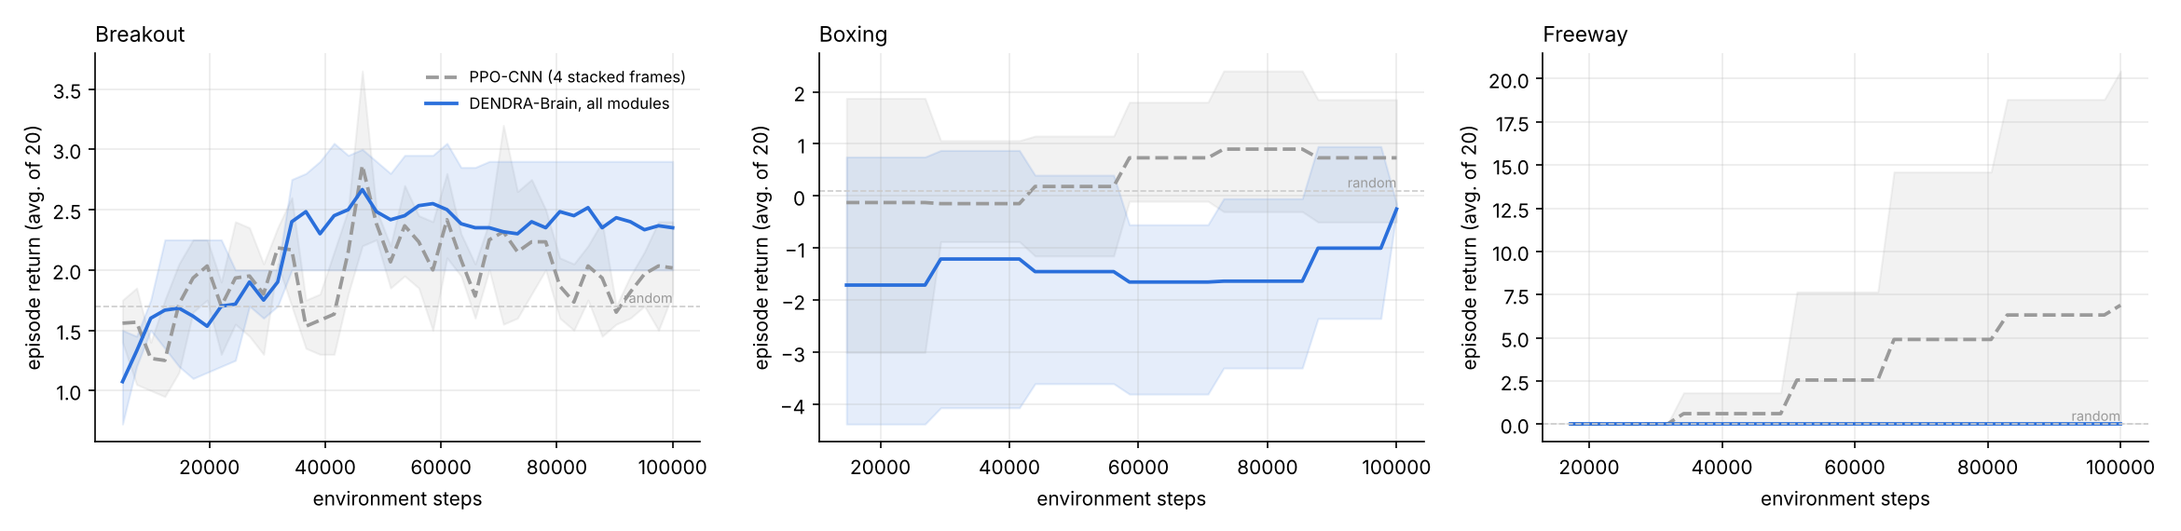
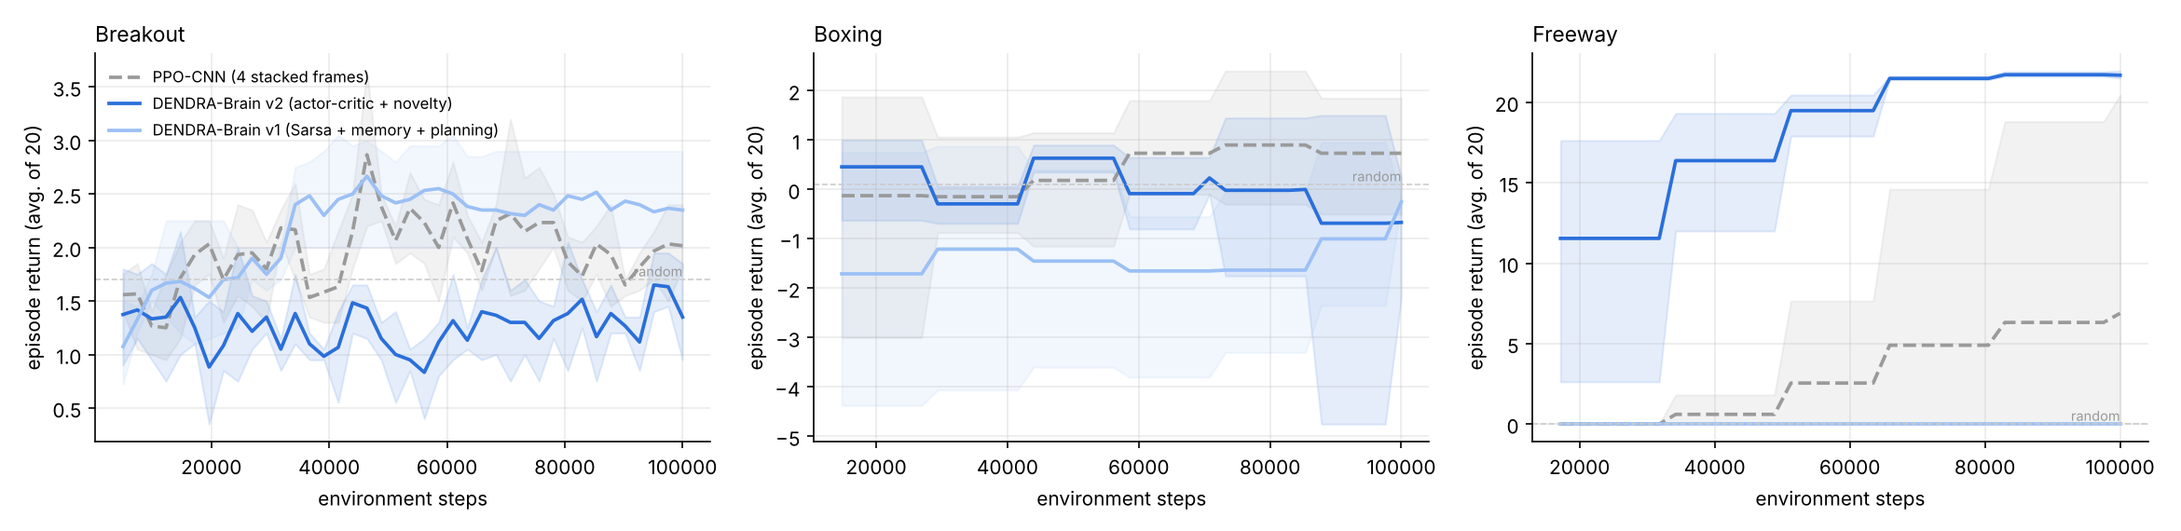
DENDRA-Brain v2 on Atari: actor-critic basal ganglia + novelty dopamine
Diagnosis of the failed v1: exploration collapse (FIRE dies out in
Breakout), confirmed by an oracle test with true RAM variables that the
learning core itself was the first bottleneck.

- dendra/brain.py: optional novelty dopamine (intrinsic reward from the
  least visited place cells); with true variables Freeway goes 0 -> 21-23.
  Off by default; Part I results unchanged (checked bit for bit)
- dendra/visual_brain.py: actor-critic striatum (critic V(s), actor
  preferences with synaptic saturation), novelty from single visual
  features, optional boredom (noradrenaline); v2 is the new default
- held-out Atari 100k (seeds 10-12): Freeway 21.7 +- 0.2 vs PPO-CNN
  6.9 +- 9.6 (SPR 21); Breakout and Boxing still at random level
- BRAIN.md section 11, README

diff --git a/dendra/visual_brain.py b/dendra/visual_brain.py
@@ -11,6 +11,9 @@ Every part learns online with local rules; there is no backpropagation anywhere.
                                                     └─► cerebellum: forward model of the next code and reward
                                                            planning = mental simulation that trains the striatum
     action = softmax over [striatum + hippocampus] values (arbitration)
+
+Defaults = "v2": actor-critic striatum + novelty dopamine, no hippocampus and no planning (these did not help
+on Atari; see BRAIN.md, Part II). v1 = actor_critic=False novelty=0 episodic=1.0 planning=4.
 """
 import math
 
@@ -148,11 +151,20 @@ class VisualBrainAgent:
     temperature      softmax temperature of the action choice
     conjunctions     use dendritic conjunction features
     episodic         weight of the hippocampal values in the choice (0 = no hippocampus)
+    planning         remembered transitions replayed per environment step (0 = no planning)
+    boredom          noradrenaline / adaptive gain: after this many steps without reward, the choice temperature
+                     has doubled, and it keeps rising (up to 20x) until a reward arrives (0 = off)
+    novelty          dopamine bonus for rarely seen visual features (0 = off)
+    actor_critic     True: ventral striatum = critic V(s), dorsal striatum = actor with action preferences
+                     (both learn from the same dopamine δ = r + γV(s') - V(s)); False: Sarsa action values
+    lr_actor         learning rate of the actor synapses (default: lr)
+    max_gap          synaptic saturation: an action's preference can fall at most this far below the best one,
+                     so every action keeps a small chance of being tried
     """
 
     def __init__(self, n_actions, n_envs=8, lr=0.1, gamma=0.99, lam=0.8, trace_len=10, temperature=0.05,
                  conjunctions=True, episodic=0.0, ec_capacity=20000, planning=0, plan_lr=None,
-                 critical_period=3000, seed=0):
+                 critical_period=3000, boredom=0, novelty=0.5, actor_critic=True, lr_actor=None, max_gap=4.0, seed=0):
         self.N, self.A = n_envs, n_actions
         self.lr, self.gamma, self.lam, self.trace_len, self.temperature = lr, gamma, lam, trace_len, temperature
         self.gen = torch.Generator().manual_seed(seed)
@@ -161,7 +173,11 @@ class VisualBrainAgent:
         self.habituation = Habituation(self.vision.v1_size)
         self.conj = DendriticConjunctions(self.vision.n_v1) if conjunctions else None
         n_total = self.vision.n_features + (self.conj.size if self.conj else 0)
-        self.w = torch.zeros(n_total, n_actions)                    # cortico-striatal synapses
+        self.w = torch.zeros(n_total, n_actions)                    # cortico-striatal synapses (Sarsa or actor)
+        self.actor_critic, self.max_gap = actor_critic, max_gap
+        self.lr_actor = lr if lr_actor is None else lr_actor
+        if actor_critic:
+            self.v = torch.zeros(n_total)                           # ventral striatum: state value (critic)
         self.dopamine = Dopamine(n_envs, gamma)
         self.history = [[] for _ in range(n_envs)]                  # recent (features, action) = eligibility tags
         self.episodic = episodic
@@ -169,6 +185,10 @@ class VisualBrainAgent:
             self.memory = EpisodicMemory(self.vision.n_features, n_actions, ec_capacity, seed=seed)
             self.episode = [[] for _ in range(n_envs)]              # (key, action, raw reward) of the running episode
         self.prev_q = None
+        self.boredom, self.drought = boredom, torch.zeros(n_envs)
+        self.novelty = novelty
+        if novelty > 0:
+            self.seen = torch.zeros(self.w.shape[0])                # how often each feature has fired
         self.planning = planning
         self.plan_lr = lr / 4 if plan_lr is None else plan_lr
         if planning > 0:
@@ -194,7 +214,13 @@ class VisualBrainAgent:
         if ec_q is not None:                                                # arbitration striatum / hippocampus
             ec = ec_q / math.sqrt(self.dopamine.var + 1e-8)                 # same units as the striatum
             scores = torch.where(known, q + self.episodic * ec, q)
-        probs = torch.softmax(scores / self.temperature, -1)
+        if self.actor_critic:                                               # preferences: saturating synapses
+            scores = torch.maximum(scores, scores.max(-1, keepdim=True).values - self.max_gap)
+        temperature = torch.full((self.N, 1), 1.0 if self.actor_critic else self.temperature)
+        if self.boredom > 0:                                                # locus coeruleus: explore when rewards dry up
+            temperature = temperature * (1 + self.drought / self.boredom).clamp(max=20.0)[:, None]
+        probs = torch.softmax(scores / temperature, -1)
+        self.probs = probs
         return torch.multinomial(probs, 1, generator=self.gen)[:, 0]
 
     # -------------------------------------------------------------------------------- loop
@@ -205,10 +231,18 @@ class VisualBrainAgent:
     def step(self, frames, reward, done):
         reward = torch.as_tensor(np.asarray(reward), dtype=torch.float32).reshape(self.N)
         done = torch.as_tensor(np.asarray(done), dtype=torch.bool).reshape(self.N)
+        self.drought = torch.where(reward != 0, torch.zeros_like(self.drought), self.drought + 1)
         return self._act(frames, done, reward, self.dopamine(reward, done))
 
     def _act(self, frames, new, raw_reward, r):
         features, codes = self.perceive(frames, new)
+        if r is not None and self.novelty > 0:                              # novelty dopamine, from single features
+            bonus = torch.stack([torch.topk(1.0 / torch.sqrt(1.0 + self.seen[c]), min(4, len(c))).values.mean()
+                                 for c in codes])                           # (pairs are excluded: moving objects
+            r = r + self.novelty * bonus                                    #  make pairs look new all the time)
+        if self.novelty > 0:
+            for c in codes:
+                self.seen[c] += 1
         q = self.q_values(features)
         ec_q = known = keys = None
         if self.episodic > 0:
@@ -216,6 +250,8 @@ class VisualBrainAgent:
             ec_q, known = self.memory.recall(keys)
         action = self.choose(q, ec_q, known)
         q_sa = q.gather(1, action[:, None])[:, 0]
+        if self.actor_critic:
+            q_sa = torch.stack([self.v[f].sum() for f in features])        # critic value of the new state
         if r is not None:
             delta = r + self.gamma * q_sa * (~new) - self.prev_q          # dopamine: reward prediction error
             self._learn(delta)
@@ -229,12 +265,15 @@ class VisualBrainAgent:
         for n in range(self.N):                                            # tag the synapses of this choice
             if new[n]:
                 self.history[n] = []
-            self.history[n].insert(0, (features[n], int(action[n])))
+            self.history[n].insert(0, (features[n], int(action[n]), self.probs[n]))
             del self.history[n][self.trace_len:]
         if self.episodic > 0:
             for n in range(self.N):
                 self.episode[n].append([keys[n], int(action[n]), 0.0])
-        self.prev_q = self.q_values(features).gather(1, action[:, None])[:, 0]
+        if self.actor_critic:
+            self.prev_q = torch.stack([self.v[f].sum() for f in features])
+        else:
+            self.prev_q = self.q_values(features).gather(1, action[:, None])[:, 0]
         if self.planning > 0:
             self.prev_features, self.prev_action = features, action
         return action.numpy()
@@ -260,16 +299,24 @@ class VisualBrainAgent:
         for n in range(self.N):
             if not self.history[n]:
                 continue
-            feats = torch.cat([f for f, _ in self.history[n]])
-            ages = torch.cat([torch.full_like(f, age) for age, (f, _) in enumerate(self.history[n])])
-            acts = torch.cat([torch.full_like(f, a) for f, a in self.history[n]])
-            sizes = torch.cat([torch.full(f.shape, float(max(len(f), 1))) for f, _ in self.history[n]])
+            hist = self.history[n]
+            feats = torch.cat([h[0] for h in hist])
+            ages = torch.cat([torch.full_like(h[0], age) for age, h in enumerate(hist)])
+            acts = torch.cat([torch.full_like(h[0], h[1]) for h in hist])
+            steps = torch.cat([torch.full_like(h[0], age) for age, h in enumerate(hist)])
+            sizes = torch.cat([torch.full(h[0].shape, float(max(len(h[0]), 1))) for h in hist])
             order = torch.argsort(feats * self.trace_len + ages)             # per feature, newest use first
-            feats, ages, acts, sizes = feats[order], ages[order], acts[order], sizes[order]
+            feats, ages, acts, sizes, steps = feats[order], ages[order], acts[order], sizes[order], steps[order]
             first = torch.ones_like(feats, dtype=torch.bool)
             first[1:] = feats[1:] != feats[:-1]
-            rows.append(feats[first]); cols.append(acts[first])
-            vals.append(float(delta[n]) * decay ** ages[first].float() / sizes[first])
+            tag = float(delta[n]) * decay ** ages[first].float() / sizes[first]
+            if self.actor_critic:
+                self.v.index_add_(0, feats[first], self.lr * tag)            # critic: ventral striatum
+                probs = torch.stack([h[2] for h in hist])[steps[first]]      # policy at the time of each tag
+                score = torch.nn.functional.one_hot(acts[first], self.A).float() - probs   # actor eligibility
+                self.w.index_add_(0, feats[first], self.lr_actor * tag[:, None] * score)
+                continue
+            rows.append(feats[first]); cols.append(acts[first]); vals.append(tag)
         if rows:
             self.w.index_put_((torch.cat(rows), torch.cat(cols)), self.lr * torch.cat(vals), accumulate=True)
 

diff --git a/dendra/brain.py b/dendra/brain.py
@@ -186,6 +186,8 @@ class BrainAgent:
     temperature       softmax temperature of the channel choice
     explore           bonus for actions rarely tried in the current situation (0 = off)
     adaptive          divide rewards by the running spread of the return (adaptive dopamine coding)
+    novelty           novelty dopamine: intrinsic reward novelty / sqrt(1 + visits) of the least visited firing
+                      cells, added to the reward so that it propagates to the states that lead there (0 = off)
     consolidation     metaplasticity: a synapse that has been used n times learns at rate
                       lr / sqrt(1 + consolidation * n), but never below lr * min_plasticity (0 = off)
     """
@@ -193,10 +195,11 @@ class BrainAgent:
     def __init__(self, obs_dim, n_actions=None, action_low=None, action_high=None, n_envs=1,
                  areas=16, subspace=4, n_units=1024, k=4, radius=0.3, field=2.0, timescales=(2.0, 8.0),
                  gamma=0.99, lam=0.9, lr=0.2, temperature=0.01, explore=0.3, levels=5, primary_max=8,
-                 adaptive=True, consolidation=0.0, min_plasticity=0.1, seed=0):
+                 adaptive=True, consolidation=0.0, min_plasticity=0.1, novelty=0.0, seed=0):
         self.N, self.gamma, self.lam, self.lr = n_envs, gamma, lam, lr
         self.temperature, self.explore = temperature, explore
         self.consolidation, self.min_plasticity = consolidation, min_plasticity
+        self.novelty = novelty
         self.gen = torch.Generator().manual_seed(seed)
         self.context = TemporalContext(obs_dim, n_envs, timescales)
         self.senses = SensoryAdaptation(self.context.out_dim)
@@ -212,6 +215,7 @@ class BrainAgent:
         else:
             self.D, self.L = 1, n_actions
         U = self.cortex.n_units
+        self.visits = torch.zeros(U)                             # how often each place cell has fired
         self.w = torch.zeros(U, self.D, self.L)                  # cortico-striatal synapses
         self.tags = torch.zeros(n_envs, U, self.D, self.L)       # eligibility tags
         self.tried = torch.zeros(U, self.D, self.L)              # how often each channel was chosen from each unit
@@ -223,7 +227,7 @@ class BrainAgent:
         x = torch.as_tensor(np.asarray(obs), dtype=torch.float32).reshape(self.N, -1)
         active, firing = self.cortex(self.senses(self.context(x, new_episode)))
         for unit in self.cortex.recycled:                        # a recycled unit starts with blank synapses
-            self.w[unit] = 0; self.tags[:, unit] = 0; self.tried[unit] = 0
+            self.w[unit] = 0; self.tags[:, unit] = 0; self.tried[unit] = 0; self.visits[unit] = 0
         return active, firing
 
     # -------------------------------------------------------------------------------- striatum
@@ -277,6 +281,10 @@ class BrainAgent:
         done = torch.as_tensor(np.asarray(done), dtype=torch.bool).reshape(self.N)
         r = self.dopamine(reward, done)
         active, firing = self.perceive(obs, done)
+        if self.novelty > 0:                                     # novelty dopamine (least visited firing cells)
+            novel = torch.where(firing > 0, 1.0 / torch.sqrt(1.0 + self.visits[active]), torch.zeros_like(firing))
+            r = r + self.novelty * torch.topk(novel, 4, dim=-1).values.mean(-1)
+            self.visits.index_add_(0, active.flatten(), firing.flatten())
         q = self.channel_values(active, firing)
         choice = self.choose(q, active, firing)
         delta = r + self.gamma * self.value_of(q, choice) * (~done) - self.prev       # dopamine: prediction error

diff --git a/experiments/rl/plot_atari.py b/experiments/rl/plot_atari.py
@@ -27,7 +27,8 @@ warnings.filterwarnings("ignore", "Mean of empty slice")
 GAMES = ["Breakout", "Boxing", "Freeway"]
 AGENTS = {
     "ppo": ("PPO-CNN (4 stacked frames)", "#9a9a9a", "--"),
-    "full": ("DENDRA-Brain, all modules", "#2a6fdb", "-"),
+    "v2": ("DENDRA-Brain v2 (actor-critic + novelty)", "#2a6fdb", "-"),
+    "full": ("DENDRA-Brain v1 (Sarsa + memory + planning)", "#9cc0f5", "-"),
     "noplan": ("  - planning (replay)", "#7fb3f5", "-"),
     "nomem": ("  - hippocampal memory", "#a0c4f8", ":"),
     "noconj": ("  - dendritic conjunctions", "#c6dcfb", "-."),
@@ -63,7 +64,7 @@ def main():
             f = np.array([final(r) for r in results])
             speed = np.mean([(r.get("steps") or r.get("total")) / r["time_s"] for r in results])
             print(f"{game:10} {label:36} {f.mean():14.2f} ± {f.std():5.2f} {speed:8.0f}  ({', '.join(f'{x:.1f}' for x in f)})")
-            if kind in ("ppo", "full"):
+            if kind in ("ppo", "full", "v2"):
                 curves = np.array([curve(r, grid) for r in results])
                 ax.plot(grid, np.nanmean(curves, 0), style, color=color, lw=1.8, label=label.strip())
                 if len(results) > 1:

diff --git a/BRAIN.md b/BRAIN.md
@@ -11,7 +11,9 @@ We compare it with PPO, using an MLP (with frame stacking when velocities are hi
 - **At 300k steps:** PPO-MLP catches up or overtakes. DENDRA-Brain's advantage is speed of learning, not final performance.
 - **Weaknesses:** high variance between seeds, some degradation late in training, and so far only low-dimensional sensors (no vision).
 
-**Part II** adds a visual cortex, hippocampal long-term memory and planning, and tests the agent on Atari. There it does **not** learn: it stays near random play and below PPO-CNN once PPO has enough data. Section 9 explains why.
+**Part II** adds a visual cortex, hippocampal long-term memory and planning, and tests the agent on Atari.
+- **First version:** it does not learn (section 9 explains why).
+- **After diagnosis (v2: actor–critic basal ganglia + novelty dopamine, section 11):** it solves Freeway at 100k steps (21.7, PPO-CNN 6.9, SPR 21), but Breakout and Boxing stay at random level.
 
 ---
 
@@ -206,7 +208,14 @@ Code: `dendra/brain.py` (the agent), `experiments/rl/run_brain.py`, `experiments
 
 Test it on real Atari games.
 
-**Result in short: it does not work yet.**
+**Result in short.**
+- **First version (v1):** it does not learn. Sections 7–9 describe it.
+- **Second round (v2, section 11):**
+  - Diagnosis showed that exploration, not vision, was the first problem.
+  - With an actor–critic striatum and novelty dopamine, the agent **solves Freeway** with local rules only: 21.7 ± 0.2 at 100k steps, versus PPO-CNN 6.9 and SPR 21.
+  - Breakout and Boxing remain at random level.
+
+**First version, in short: it does not work.**
 - At 100k steps, both DENDRA-Brain and PPO-CNN stay near random play on Breakout, Boxing and Freeway.
 - With 5x more data (Breakout, 500k steps), PPO starts to learn (9.3) and DENDRA-Brain does not (1.6).
 - Published sample-efficient deep-RL methods reach 13–38 on these games at 100k steps.
@@ -295,7 +304,10 @@ These published methods use deep networks trained by backpropagation, replay wit
 ## 10. Reproducing Part II
 
 ```bash
-python experiments/rl/run_visual_brain.py --game Breakout --steps 100000 --seed 10 --set episodic=1.0 planning=4 --out runs/atari/full_Breakout_s10.json
+# v1 (Sarsa + memory + planning)
+python experiments/rl/run_visual_brain.py --game Breakout --steps 100000 --seed 10 --set actor_critic=False novelty=0 episodic=1.0 planning=4 --out runs/atari/full_Breakout_s10.json
+# v2 (the defaults: actor-critic + novelty dopamine)
+python experiments/rl/run_visual_brain.py --game Freeway --steps 100000 --seed 10 --out runs/atari/v2_Freeway_s10.json
 python experiments/rl/ppo.py --env atari:Breakout --core mlp --total 100000 --seed 10 --device cpu --out runs/atari/ppo_Breakout_s10.json
 python experiments/rl/plot_atari.py experiments/results/brain_atari/main_100k figures/brain_atari.png
 ```
@@ -306,3 +318,52 @@ Additional references (Part II):
 - Liang, Y., Machado, M. C., Talvitie, E., Bowling, M. *State of the art control of Atari games using shallow reinforcement learning.* AAMAS 2016.
 - Mattar, M. G., Daw, N. D. *Prioritized memory access explains planning and hippocampal replay.* Nature Neuroscience 21, 2018.
 - Schwarzer, M. et al. *Data-efficient reinforcement learning with self-predictive representations (SPR).* ICLR 2021.
+
+## 11. Second round: diagnosis and v2
+
+**Step 1: what really went wrong.** The action statistics during training showed that the first problem was exploration collapse, not vision.
+- In Breakout, the probability of pressing FIRE fell to exactly 0 by 40k steps.
+- Without FIRE the ball is never relaunched after a lost life, so no reward arrives again and the values decay to 0.
+- The agent then waits forever. This is why the 500k run had so few episodes.
+
+**Step 2: an oracle test separates vision from learning.** The same learning core was given the true game variables from RAM instead of pixels:
+- **Breakout:** ball x/y and paddle x.
+- **Freeway:** chicken height and car positions.
+
+It still learned little: Breakout 1.7 → 3.4, Freeway 0. So the learning core itself was too weak for these games, independent of vision. Two causes emerged:
+1. **Exploration bonuses that do not propagate.** The action-novelty bonus of Part I changes only the choice in the current state. It never enters the values, so "moving up leads to places never seen" is not learned. MountainCar worked only because its −1 per step made values that start at zero optimistic.
+2. **Tags that are too short for Atari delays.** With true variables, longer eligibility tags (λ = 0.97) raised Breakout from 3.4 to 5.1.
+
+**Step 3: two brain mechanisms that fix exploration.**
+- **Novelty dopamine** (Kakade & Dayan, 2002). Dopamine neurons fire for novel stimuli. The novelty of the least-seen features is added to the reward, so it propagates through learning to the states that lead to novelty.
+  - Core agent: with true variables, Freeway rises from 0 to **21–23** (`dendra/brain.py`, option `novelty`).
+  - Vision agent: novelty is computed on single visual features only. Feature *pairs* of the moving cars look new all the time and drown the signal.
+- **Actor–critic basal ganglia** (O'Doherty et al., 2004).
+  - The ventral striatum learns the state value V(s) (critic); the dorsal striatum learns action preferences (actor). Both learn from the same dopamine δ = r + γV(s') − V(s).
+  - With Sarsa, action differences come only from small differences in long-run value and are lost in noise. Actor preferences instead keep growing as long as an action does better than expected.
+  - Synaptic saturation (a preference can fall at most 4 below the best) guarantees that every action keeps being tried. This prevents the FIRE collapse.
+  - With vision on Freeway, Sarsa + novelty still scores 0, while actor–critic + novelty scores 22.
+
+**Also tried, without effect:** a "boredom" mechanism, where noradrenaline raises exploration after a long time without reward (adaptive gain theory, Aston-Jones & Cohen, 2005). It makes behaviour more random, which does not help when the problem needs *directed* exploration.
+
+**v2 = vision + conjunctions + actor–critic striatum + novelty dopamine.** There is no hippocampal memory and no planning, since neither helped in v1. The configuration was fixed on seed 0 before the evaluation on seeds 10–12:
+
+| Game | Random | PPO-CNN | v1 | **v2** | Published at 100k: SPR / Rainbow (enh.) |
+| --- | ---: | ---: | ---: | ---: | ---: |
+| Freeway | 0.0 | 6.9 ± 9.6 | 0.0 ± 0.0 | **21.7 ± 0.2** (21.5, 21.6, 21.9) | 21 / 6 |
+| Breakout | 1.7 | 2.0 ± 0.3 | 2.4 ± 0.4 | 1.4 ± 0.4 | 13 / 14 |
+| Boxing | 0.1 | 0.7 ± 1.0 | −0.3 ± 0.1 | −0.7 ± 1.1 | 38 / 28 |
+
+![Atari, 100k steps: v1, v2 and PPO-CNN](figures/brain_atari.png)
+
+- **Freeway: solved on every seed, learned within the first episodes.** v2 averages 11.5 over the first 20 episodes; PPO needed tens of thousands of steps and found it on only 1 of 3 seeds. This is the first Atari game where the brain-like agent clearly beats PPO-CNN, and it matches SPR (21).
+- **Breakout and Boxing: still at random level,** and v2 ends slightly *below* random on Breakout. These games need fast, precise reactions to small objects: where the ball is, where the opponent's head is. The visual code resolves positions only on an 8-pixel grid after pooling, and nothing tells the cortex which features matter. The oracle test shows what a better code could give (Breakout 5.1 with true variables and long tags), but that is still far from SPR.
+
+**Next steps:**
+- **Finer, reward-relevant visual codes:** less pooling for small moving objects, and dopamine-gated plasticity in V2.
+- **Longer eligibility tags in the vision agent:** the oracle test showed they matter.
+- **A predictive visual cortex** that learns locally to predict the next frame and the reward.
+
+Additional references (section 11):
+- Aston-Jones, G., Cohen, J. D. *An integrative theory of locus coeruleus-norepinephrine function: adaptive gain and optimal performance.* Annual Review of Neuroscience 28, 2005.
+- O'Doherty, J. et al. *Dissociable roles of ventral and dorsal striatum in instrumental conditioning.* Science 304, 2004.

diff --git a/README.md b/README.md
@@ -15,7 +15,7 @@
 >
 > At 16M parameters on Vietnamese TinyStories (BPE tokenizer), both models tell coherent stories, but GPT reaches a lower perplexity after the same 4,000 steps: 6.8 versus 7.6. With CUDA Graphs and `torch.compile`, DENDRA generates text 4–6x faster and trains 1.6x faster than the naive implementation.
 >
-> In reinforcement learning (meta-RL on bandits), DENDRA learns an exploration strategy on par with Thompson Sampling and needs 2–3x less experience than LSTM/GPT, but generalizes worst when episodes are longer than in training. With PPO on an Atari-style game (MinAtar Breakout, discrete actions), DENDRA scores 12.9 versus 8.9 for a parameter-matched LSTM. On the real Atari Breakout (Kaggle GPU, 2M steps, 1 seed) it ends slightly above the LSTM (≈ 37 vs ≈ 34). With continuous actions (Pendulum and MuJoCo HalfCheetah, both with hidden velocities) it does not yet beat simple networks: on HalfCheetah it reaches about half the LSTM's return. Trained **without backpropagation**, with a dopamine-modulated three-factor rule, DENDRA still learns CartPole about as well as with exact gradients on the same schedule (295 versus 313), but it fails once the task needs memory. A new, separate design for reinforcement learning, **DENDRA-Brain** ([BRAIN.md](BRAIN.md)), learns online with local rules only: no backpropagation, no PPO. In 100k steps it learns faster than PPO on six control tasks and ends best on five of them; with 3x more data PPO catches up. From Atari pixels it does not learn yet.
+> In reinforcement learning (meta-RL on bandits), DENDRA learns an exploration strategy on par with Thompson Sampling and needs 2–3x less experience than LSTM/GPT, but generalizes worst when episodes are longer than in training. With PPO on an Atari-style game (MinAtar Breakout, discrete actions), DENDRA scores 12.9 versus 8.9 for a parameter-matched LSTM. On the real Atari Breakout (Kaggle GPU, 2M steps, 1 seed) it ends slightly above the LSTM (≈ 37 vs ≈ 34). With continuous actions (Pendulum and MuJoCo HalfCheetah, both with hidden velocities) it does not yet beat simple networks: on HalfCheetah it reaches about half the LSTM's return. Trained **without backpropagation**, with a dopamine-modulated three-factor rule, DENDRA still learns CartPole about as well as with exact gradients on the same schedule (295 versus 313), but it fails once the task needs memory. A new, separate design for reinforcement learning, **DENDRA-Brain** ([BRAIN.md](BRAIN.md)), learns online with local rules only: no backpropagation, no PPO. In 100k steps it learns faster than PPO on six control tasks and ends best on five of them; with 3x more data PPO catches up. From Atari pixels, it solves Freeway (21.7 vs 6.9 for PPO-CNN) but not Breakout or Boxing.
 
 ---
 
@@ -532,6 +532,8 @@ With 100k environment steps and 3 held-out seeds, against PPO (MLP and LSTM):
 - **At 500k steps on Breakout:** PPO learns (9.3) and DENDRA-Brain does not (1.6).
 
 The likely reason is that, without backpropagation, no reward signal reaches the visual cortex, so it never learns which features matter.
+
+A second round found that the first problem was exploration collapse, not vision. With an actor–critic basal ganglia and novelty dopamine (v2), the agent **solves Freeway** at 100k steps on every held-out seed: 21.7 ± 0.2, versus 6.9 for PPO-CNN and 21 for SPR. Breakout and Boxing remain at random level.
 
 See [BRAIN.md](BRAIN.md) for the architecture, ablations and limitations.
 
